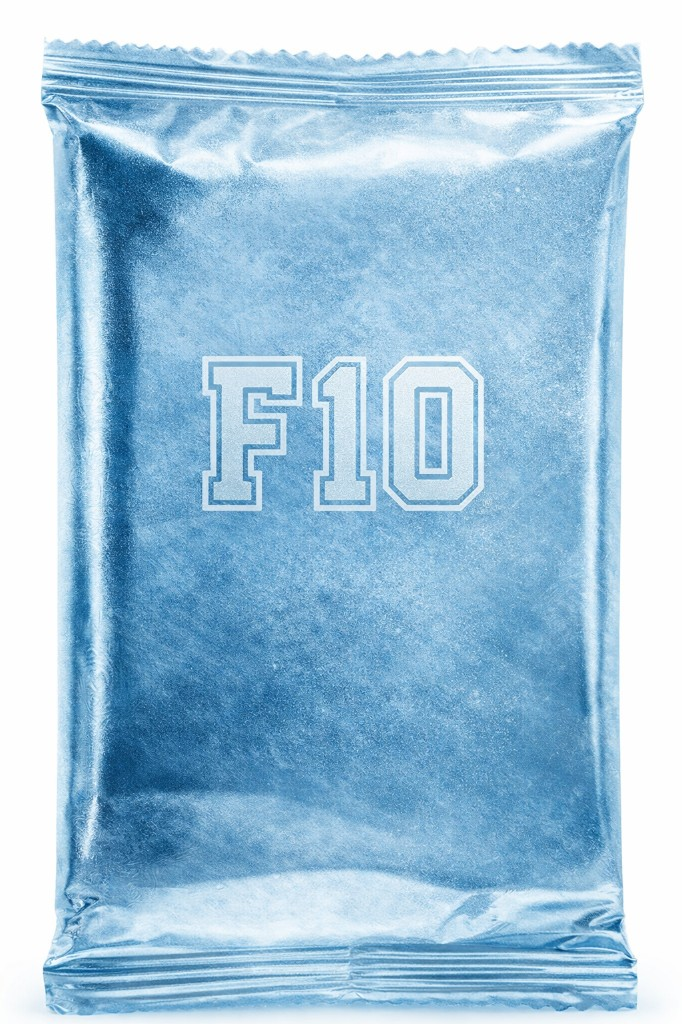
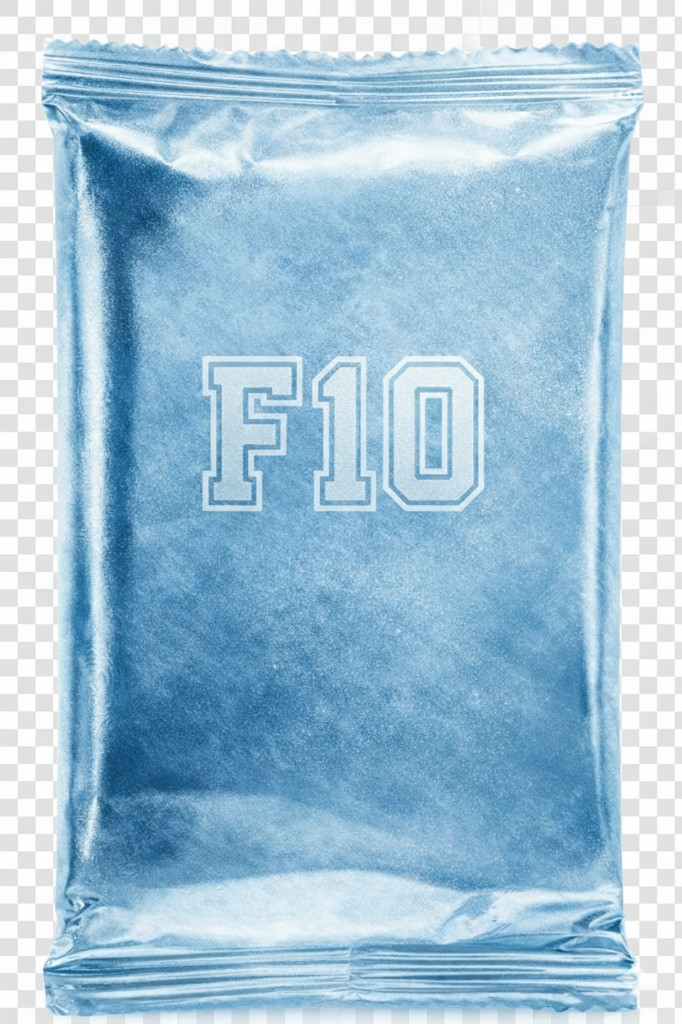
Update pack image with transparent bg, adjust sizing and position

diff --git a/components/PacksContent.js b/components/PacksContent.js
@@ -163,23 +163,20 @@ export default function PacksContent({ user, onViewCollection }) {
       
       {/* Main field view - pack on left, best card on right */}
       {!showResults && (
-        <div className="flex items-center justify-center gap-6 py-12 px-4">
+        <div className="flex items-center justify-center gap-6 px-4" style={{ paddingTop: '200px' }}>
           {/* Pack section */}
           <div className="flex flex-col items-center">
             <button
               onClick={packInfo?.packsRemaining > 0 ? handleOpenPack : () => router.push('/shop')}
               disabled={opening}
               className="relative transition-transform hover:scale-105 active:scale-95 disabled:opacity-50"
-              style={{ width: '140px', height: '190px' }}
+              style={{ width: '120px', height: '160px' }}
             >
               <img 
                 src="/f10-pack.png" 
                 alt="Card Pack" 
                 className="w-full h-full object-contain"
-                style={{ 
-                  mixBlendMode: 'multiply',
-                  filter: 'drop-shadow(0 4px 20px rgba(0,0,0,0.5))'
-                }}
+                style={{ filter: 'drop-shadow(0 4px 20px rgba(0,0,0,0.5))' }}
               />
               {opening && (
                 <div className="absolute inset-0 flex items-center justify-center bg-black/50 rounded-lg">
@@ -200,16 +197,18 @@ export default function PacksContent({ user, onViewCollection }) {
             {bestCard ? (
               <button
                 onClick={goToCollection}
-                className="transition-transform hover:scale-105 active:scale-95"
-                style={{ width: '140px' }}
+                className="transition-transform hover:scale-105 active:scale-95 overflow-hidden rounded-lg"
+                style={{ width: '120px', height: '160px' }}
               >
-                <Card card={bestCard} small={false} />
+                <div style={{ transform: 'scale(0.625)', transformOrigin: 'top left', width: '192px', height: '256px' }}>
+                  <Card card={bestCard} small={false} />
+                </div>
               </button>
             ) : (
               <div 
                 onClick={goToCollection}
                 className="rounded-lg border-2 border-dashed border-white/20 flex items-center justify-center cursor-pointer hover:border-white/40 transition-colors"
-                style={{ width: '140px', height: '190px' }}
+                style={{ width: '120px', height: '160px' }}
               >
                 <span className="text-white/40 text-sm text-center px-2" style={{ fontFamily: 'var(--f10-display-font)' }}>
                   No cards yet
